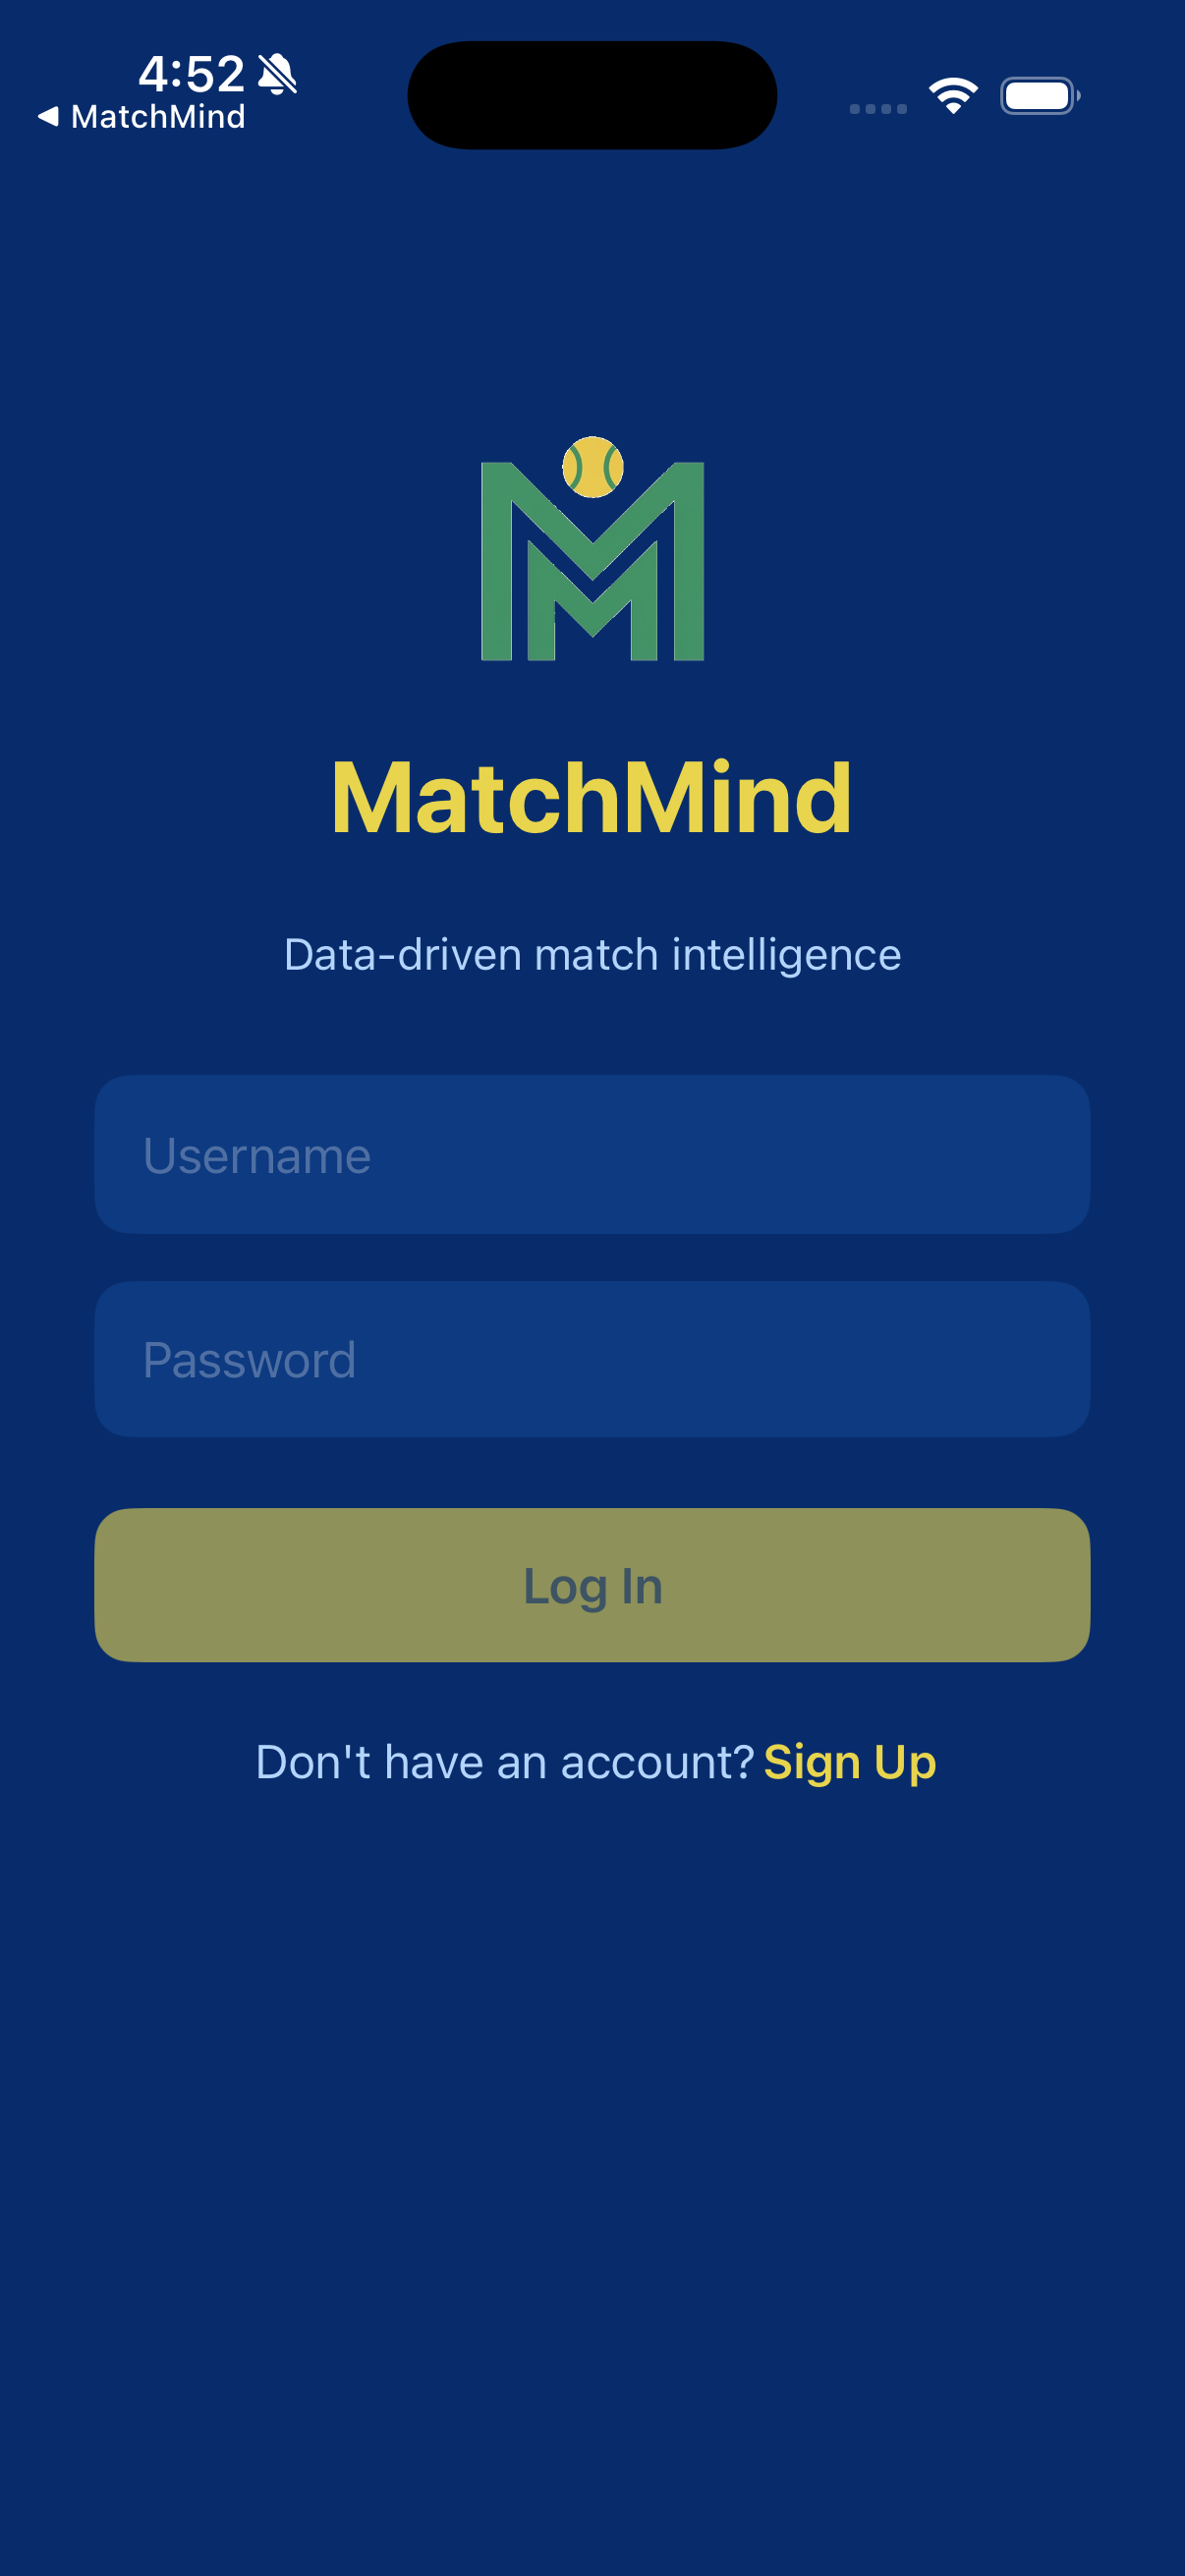
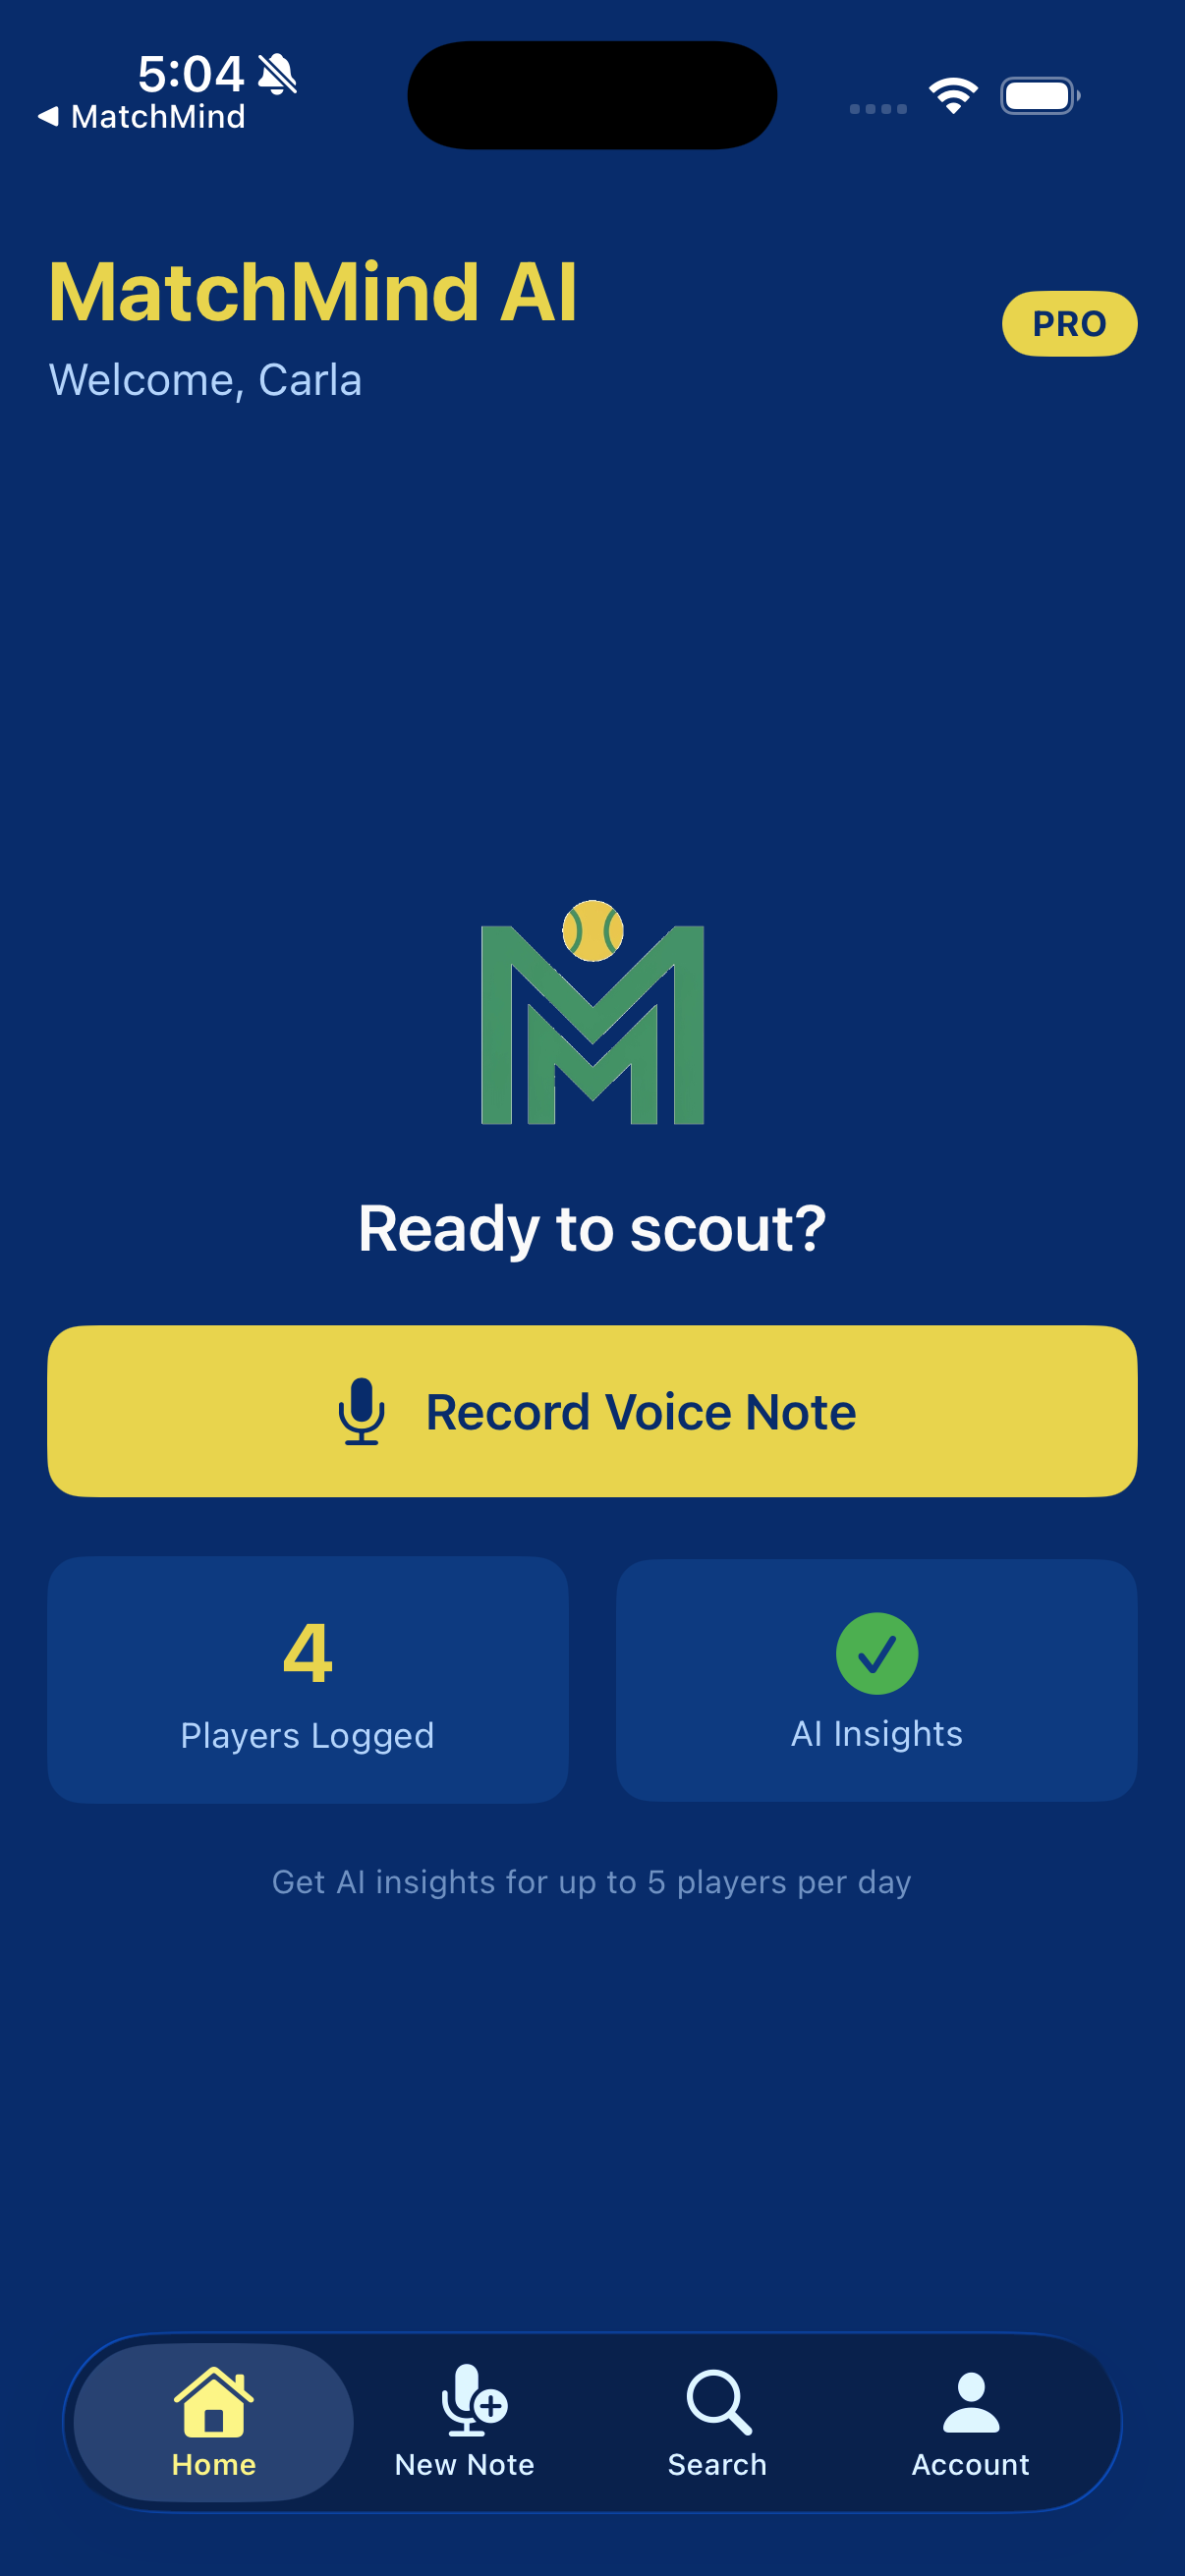
Add auto-rotating slideshow with 4 app screenshots

diff --git a/index.html b/index.html
@@ -16,7 +16,7 @@
       line-height: 1.6;
     }
     .container {
-      max-width: 1000px;
+      max-width: 1100px;
       margin: 0 auto;
       padding: 40px 24px;
     }
@@ -65,18 +65,61 @@
       gap: 60px;
       padding: 40px 0;
     }
+
+    /* Slideshow */
+    .slideshow {
+      position: relative;
+      max-width: 320px;
+      width: 100%;
+    }
     .screenshot-frame {
       background: #000;
       border-radius: 44px;
       padding: 8px;
       box-shadow: 0 20px 60px rgba(0, 0, 0, 0.5);
-      max-width: 340px;
+      position: relative;
+      aspect-ratio: 300 / 611;
+      overflow: hidden;
     }
-    .screenshot-frame img {
-      width: 100%;
-      display: block;
+    .slide {
+      position: absolute;
+      top: 8px;
+      left: 8px;
+      right: 8px;
+      bottom: 8px;
+      opacity: 0;
+      transition: opacity 0.8s ease-in-out;
       border-radius: 36px;
+      overflow: hidden;
     }
+    .slide.active {
+      opacity: 1;
+    }
+    .slide img {
+      width: 100%;
+      height: 100%;
+      object-fit: cover;
+      display: block;
+    }
+    .dots {
+      display: flex;
+      justify-content: center;
+      gap: 8px;
+      margin-top: 20px;
+    }
+    .dot {
+      width: 8px;
+      height: 8px;
+      border-radius: 50%;
+      background: rgba(255, 255, 255, 0.3);
+      cursor: pointer;
+      transition: background 0.3s, transform 0.3s;
+    }
+    .dot.active {
+      background: #e8d44d;
+      transform: scale(1.3);
+    }
+
     .features {
       display: grid;
       grid-template-columns: repeat(auto-fit, minmax(240px, 1fr));
@@ -119,8 +162,9 @@
       font-size: 0.85rem;
       margin-top: 12px;
     }
-    @media (min-width: 768px) {
-      .hero { flex-direction: row; justify-content: space-around; }
+    @media (min-width: 900px) {
+      .hero { flex-direction: row; justify-content: space-around; align-items: center; }
+      .features-column { flex: 1; max-width: 500px; }
     }
   </style>
 </head>
@@ -139,7 +183,7 @@
     </header>
 
     <div class="hero">
-      <div>
+      <div class="features-column">
         <div class="features">
           <div class="feature">
             <div class="feature-icon">🎙️</div>
@@ -163,8 +207,19 @@
           </div>
         </div>
       </div>
-      <div class="screenshot-frame">
-        <img src="assets/screenshot-home.png" alt="MatchMind AI app screenshot">
+      <div class="slideshow">
+        <div class="screenshot-frame">
+          <div class="slide active"><img src="assets/screenshot-home.png" alt="Home screen"></div>
+          <div class="slide"><img src="assets/screenshot-note.png" alt="New note screen"></div>
+          <div class="slide"><img src="assets/screenshot-search.png" alt="Player search"></div>
+          <div class="slide"><img src="assets/screenshot-player.png" alt="Player profile with AI insights"></div>
+        </div>
+        <div class="dots">
+          <div class="dot active" data-index="0"></div>
+          <div class="dot" data-index="1"></div>
+          <div class="dot" data-index="2"></div>
+          <div class="dot" data-index="3"></div>
+        </div>
       </div>
     </div>
 
@@ -173,5 +228,31 @@
       <p>© 2026 MatchMind AI. All rights reserved.</p>
     </footer>
   </div>
+
+  <script>
+    const slides = document.querySelectorAll('.slide');
+    const dots = document.querySelectorAll('.dot');
+    let current = 0;
+
+    function show(index) {
+      slides.forEach((s, i) => s.classList.toggle('active', i === index));
+      dots.forEach((d, i) => d.classList.toggle('active', i === index));
+      current = index;
+    }
+
+    dots.forEach(dot => {
+      dot.addEventListener('click', () => {
+        show(parseInt(dot.dataset.index));
+        resetInterval();
+      });
+    });
+
+    let timer = setInterval(next, 4000);
+    function next() { show((current + 1) % slides.length); }
+    function resetInterval() {
+      clearInterval(timer);
+      timer = setInterval(next, 4000);
+    }
+  </script>
 </body>
 </html>